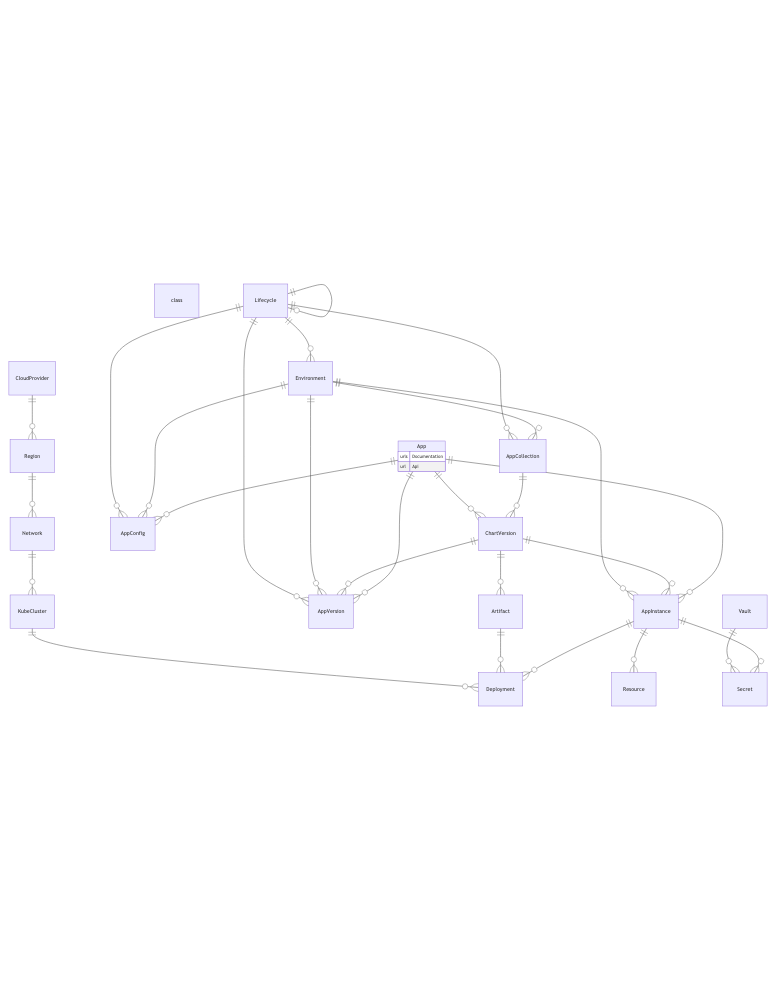
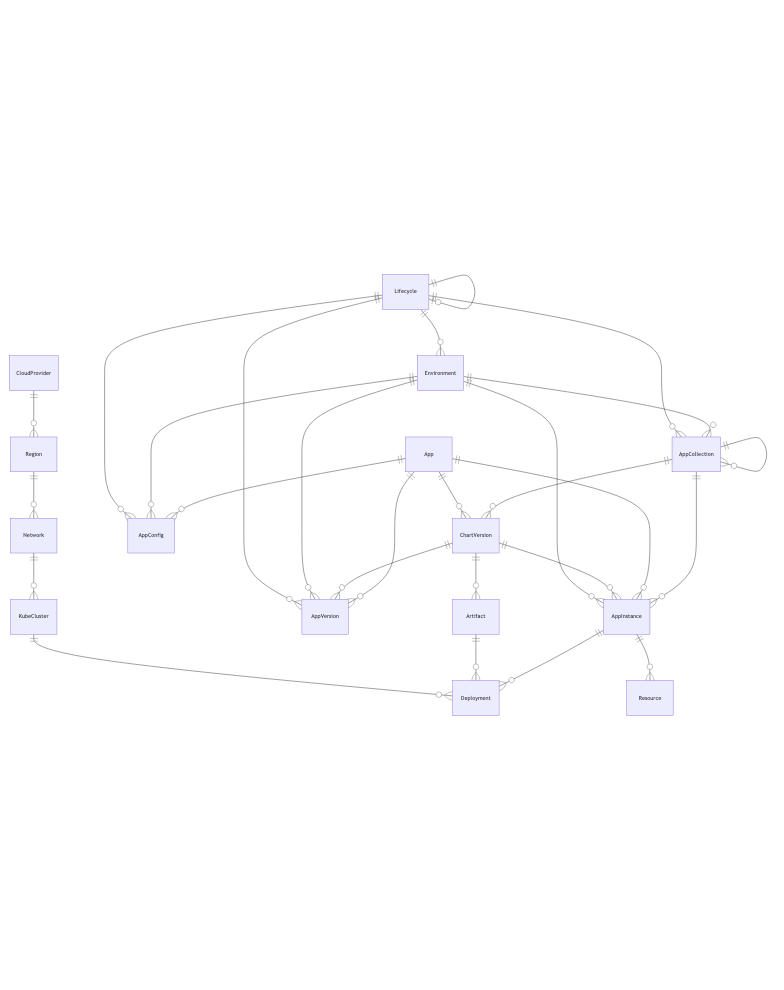
Updates to AppCollection and removed Vault/Secret

diff --git a/docs/erd_mermaid.md b/docs/erd_mermaid.md
@@ -1,13 +1,10 @@
 ```mermaid
 erDiagram
     AppCollection ||--o{ ChartVersion : ""
+    AppCollection ||--o{ AppCollection : ""
+    AppCollection ||--o{ AppInstance : ""
     AppInstance ||--o{ Deployment : ""
     AppInstance ||--o{ Resource : ""
-    AppInstance ||--o{ Secret : ""
-    class App {
-       urls Documentation
-       url Api
-    }
     App ||--o{ AppConfig : ""
     App ||--o{ AppInstance : ""
     App ||--o{ AppVersion : ""
@@ -29,5 +26,4 @@ erDiagram
     Lifecycle ||--o| Lifecycle : ""
     Network ||--o{ KubeCluster : ""
     Region ||--o{ Network : ""
-    Vault ||--o{ Secret : ""
 ```

diff --git a/docs/erd_plantuml.md b/docs/erd_plantuml.md
@@ -1,9 +1,10 @@
 ```plantuml
 @startuml
     AppCollection ||--o{ ChartVersion : ""
+    AppCollection ||--o{ AppCollection : ""
+    AppCollection ||--o{ AppInstance : ""
     AppInstance ||--o{ Deployment : ""
     AppInstance ||--o{ Resource : ""
-    AppInstance ||--o{ Secret : ""
     App ||--o{ AppConfig : ""
     App ||--o{ AppInstance : ""
     App ||--o{ AppVersion : ""
@@ -25,6 +26,5 @@
     Lifecycle ||--o| Lifecycle : ""
     Network ||--o{ KubeCluster : ""
     Region ||--o{ Network : ""
-    Vault ||--o{ Secret : ""
 @enduml
 ```
